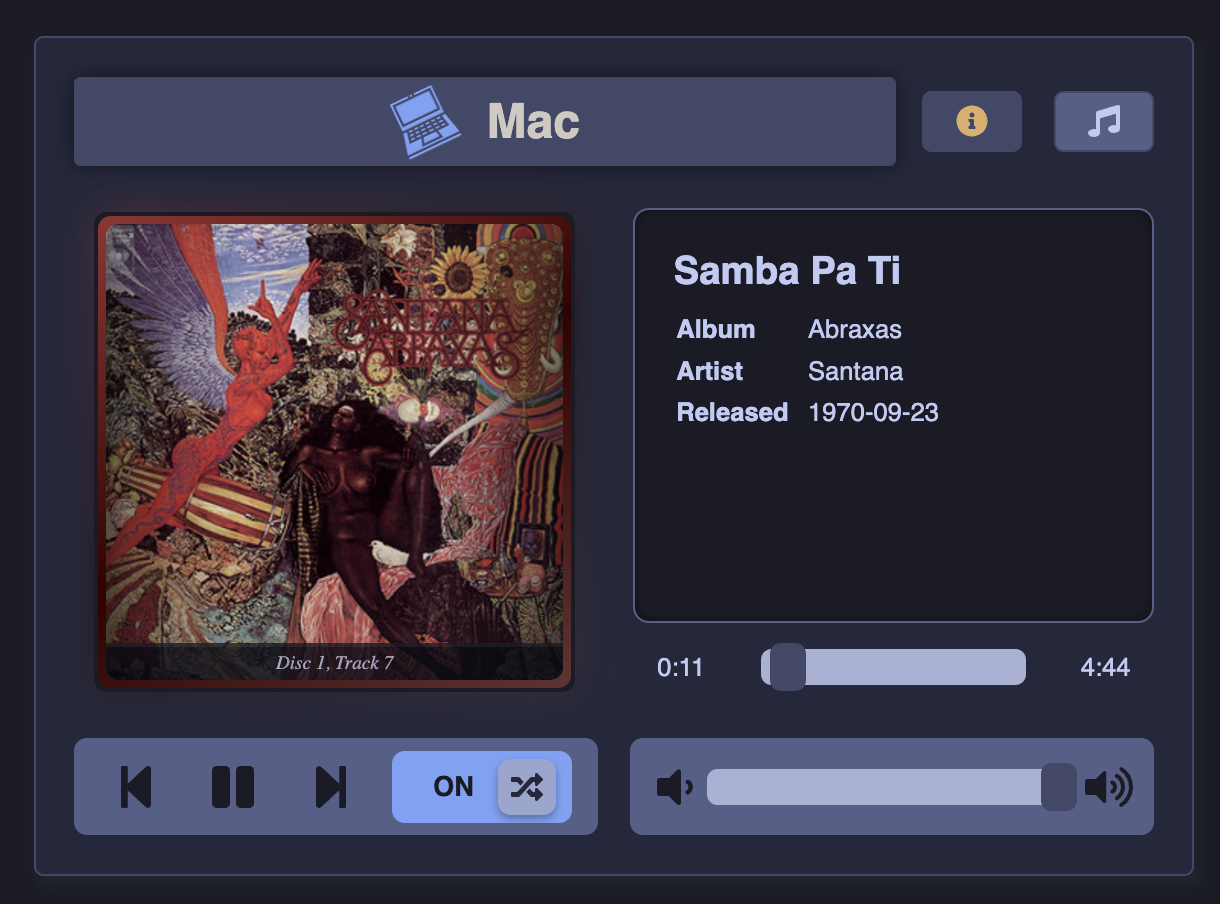
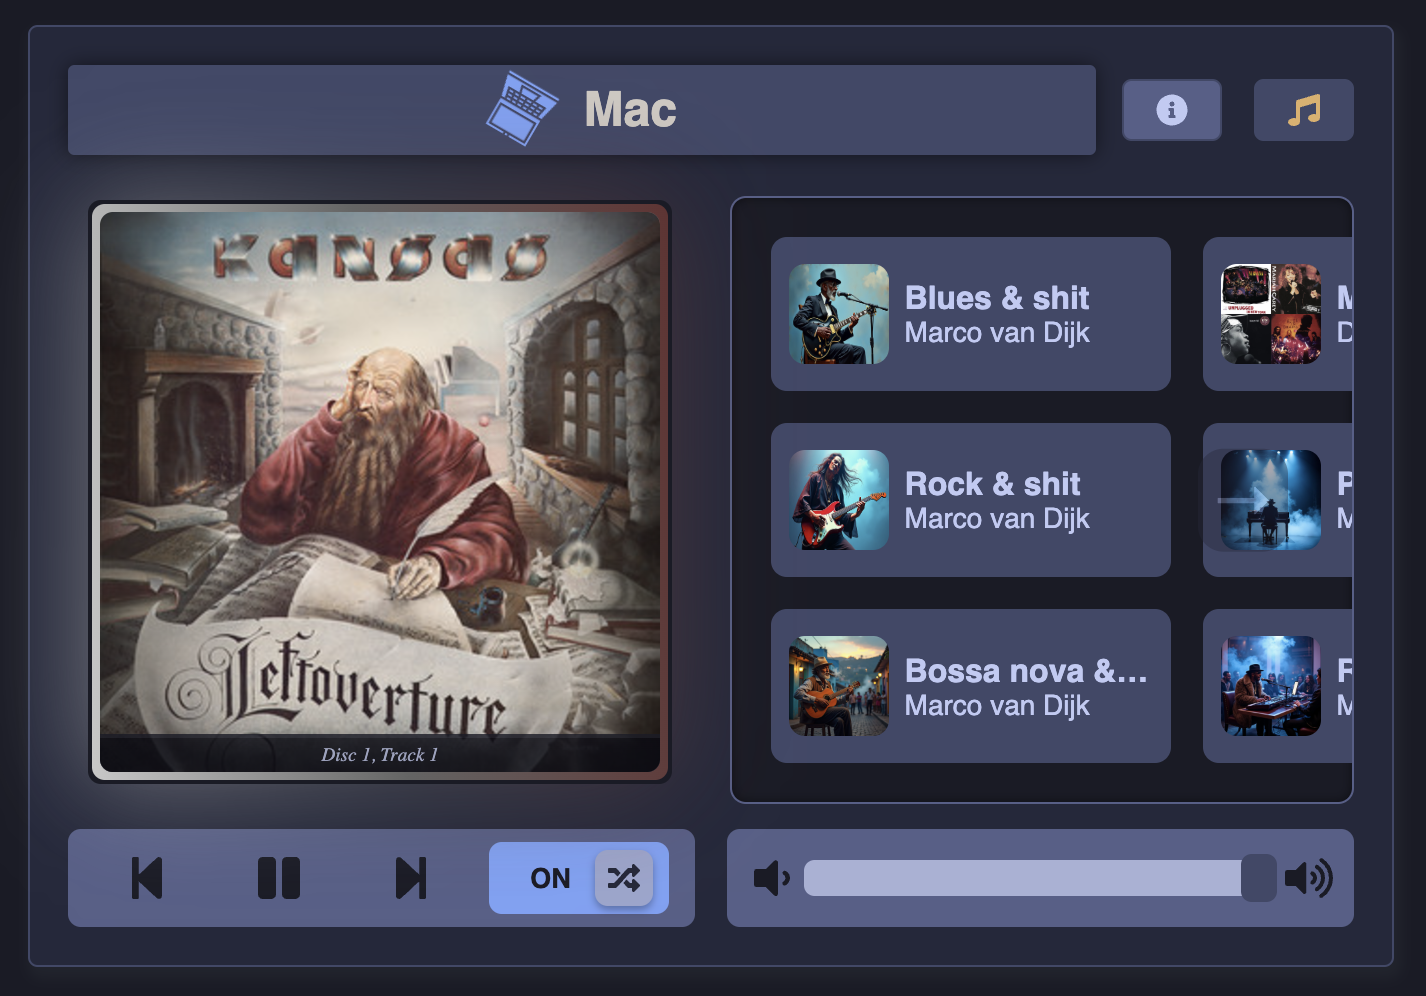
Layout tweaks

diff --git a/src/components/MediaPlayer.js b/src/components/MediaPlayer.js
@@ -12,6 +12,9 @@ import MediaButtons from "./Controls/MediaButtons";
 import VolumeControls from "./Controls/VolumeControls";
 import "./MediaPlayer.css";
 
+const thresholdWidescreen = 800;
+const thresholdNarrowscreen = 450;
+
 // TODO: add props for forcing a layout
 // TODO: add more comments, IE for props
 const MediaPlayer = ({
@@ -40,7 +43,7 @@ const MediaPlayer = ({
     error,
     playlists,
   } = useLibrespot(websocketUrl, apiBaseUrl);
-  const { width } = useComponentSize(playerRef); //< Retrieve dimensions of media player
+  const { width, height } = useComponentSize(playerRef); //< Retrieve dimensions of media player
   const [activeTab, setActiveTab] = useState("Info"); //< Text info view or Playlist selection
   const [selectedPlaylist, setSelectedPlaylist] = useState(null);
   const [arrowOffset, setArrowOffset] = useState(0); 
@@ -74,9 +77,9 @@ const MediaPlayer = ({
     const updateLayout = () => {
       if (playerRef.current) {
         const layoutClass =
-          width > 900
+          width > thresholdWidescreen
             ? "spotify-player-widescreen-layout"
-            : width < 500
+            : width < thresholdNarrowscreen
               ? "spotify-player-portrait-layout"
               : "spotify-player-default-layout";
 
@@ -105,7 +108,7 @@ const MediaPlayer = ({
 
   return (
     <div ref={playerRef} className="spotify-player-spotify-card">
-      {width < 500 ? (
+      {width < thresholdNarrowscreen ? (
         <>
           <Header
             isConnected={isConnected}
@@ -164,7 +167,7 @@ const MediaPlayer = ({
             />
           </div>
         </>
-      ) : width > 900 ? (
+      ) : width > thresholdWidescreen ? (
         <div className="spotify-player-info-container">
           <div className="spotify-player-left">
             <AlbumCard

diff --git a/src/components/MediaPlayer.css b/src/components/MediaPlayer.css
@@ -96,6 +96,8 @@
 
 .spotify-player-portrait-layout .spotify-player-bottom {
   order: 1;
+  max-width: 300px;
+  align-self: center;
 }
 
 .spotify-player-portrait-layout .spotify-player-playlists-wrapper,
@@ -125,8 +127,7 @@
 
 .spotify-player-widescreen-layout .spotify-player-right {
   gap: 0;
-  height: 100%;
-  align-self: flex-start;
+  align-self: stretch;
 }
 
 .spotify-player-widescreen-layout .spotify-player-middle {
@@ -134,10 +135,9 @@
   display: flex;
   flex-direction: column;
   gap: 0.4em;
-  height: 100%;
   overflow-x: auto;
   box-sizing: border-box;
-  align-self: flex-start;
+  align-self: stretch;
 }
 
 .spotify-player-widescreen-layout .spotify-player-playlists-wrapper {

diff --git a/src/components/Info/Playlists.js b/src/components/Info/Playlists.js
@@ -18,7 +18,7 @@ const Playlists = ({ playlists, onSelect, onPlay }) => {
     if (!wrapperRef.current) return;
     const { scrollLeft } = wrapperRef.current;
     // Hide arrow if scrolled near the end
-    setArrowVisible(scrollLeft < 20);
+    setArrowVisible(scrollLeft < 1);
     setArrowOffset(scrollLeft);
   };
 

diff --git a/src/shared.css b/src/shared.css
@@ -52,8 +52,6 @@
   font-family: 'Roboto', sans-serif;
   background: var(--body-background-color);
   color: var(--text-color);
-  overflow-x: hidden;
-  overflow-y: hidden;
   padding: 0;
   margin: 0;
   width: 100%;

diff --git a/src/components/Info/Playlists.css b/src/components/Info/Playlists.css
@@ -10,6 +10,7 @@
   box-shadow: inset 0 0 5px rgba(0, 0, 0, 0.5);
   position: relative;
   display: flex;
+  margin-top: 0.5em;
 }
 
 .spotify-player-playlist-container {

diff --git a/README.md b/README.md
@@ -78,9 +78,9 @@ The player arranges itself based on the screen dimensions, with three possible l
 ![Default](screenshots/default.png)
 
 ### Widescreen
-![WideLib](screenshots/widescreen.png)
-![WideLib](screenshots/widescreen_lib.png)
-![WideLib](screenshots/widescreen_library.png)
+![Wide1](screenshots/widescreen.png)
+![Wide2](screenshots/widescreen_lib.png)
+![Wide3](screenshots/widescreen_library.png)
 
 ### Portrait 
 ![Portrait](screenshots/portrait.png)
